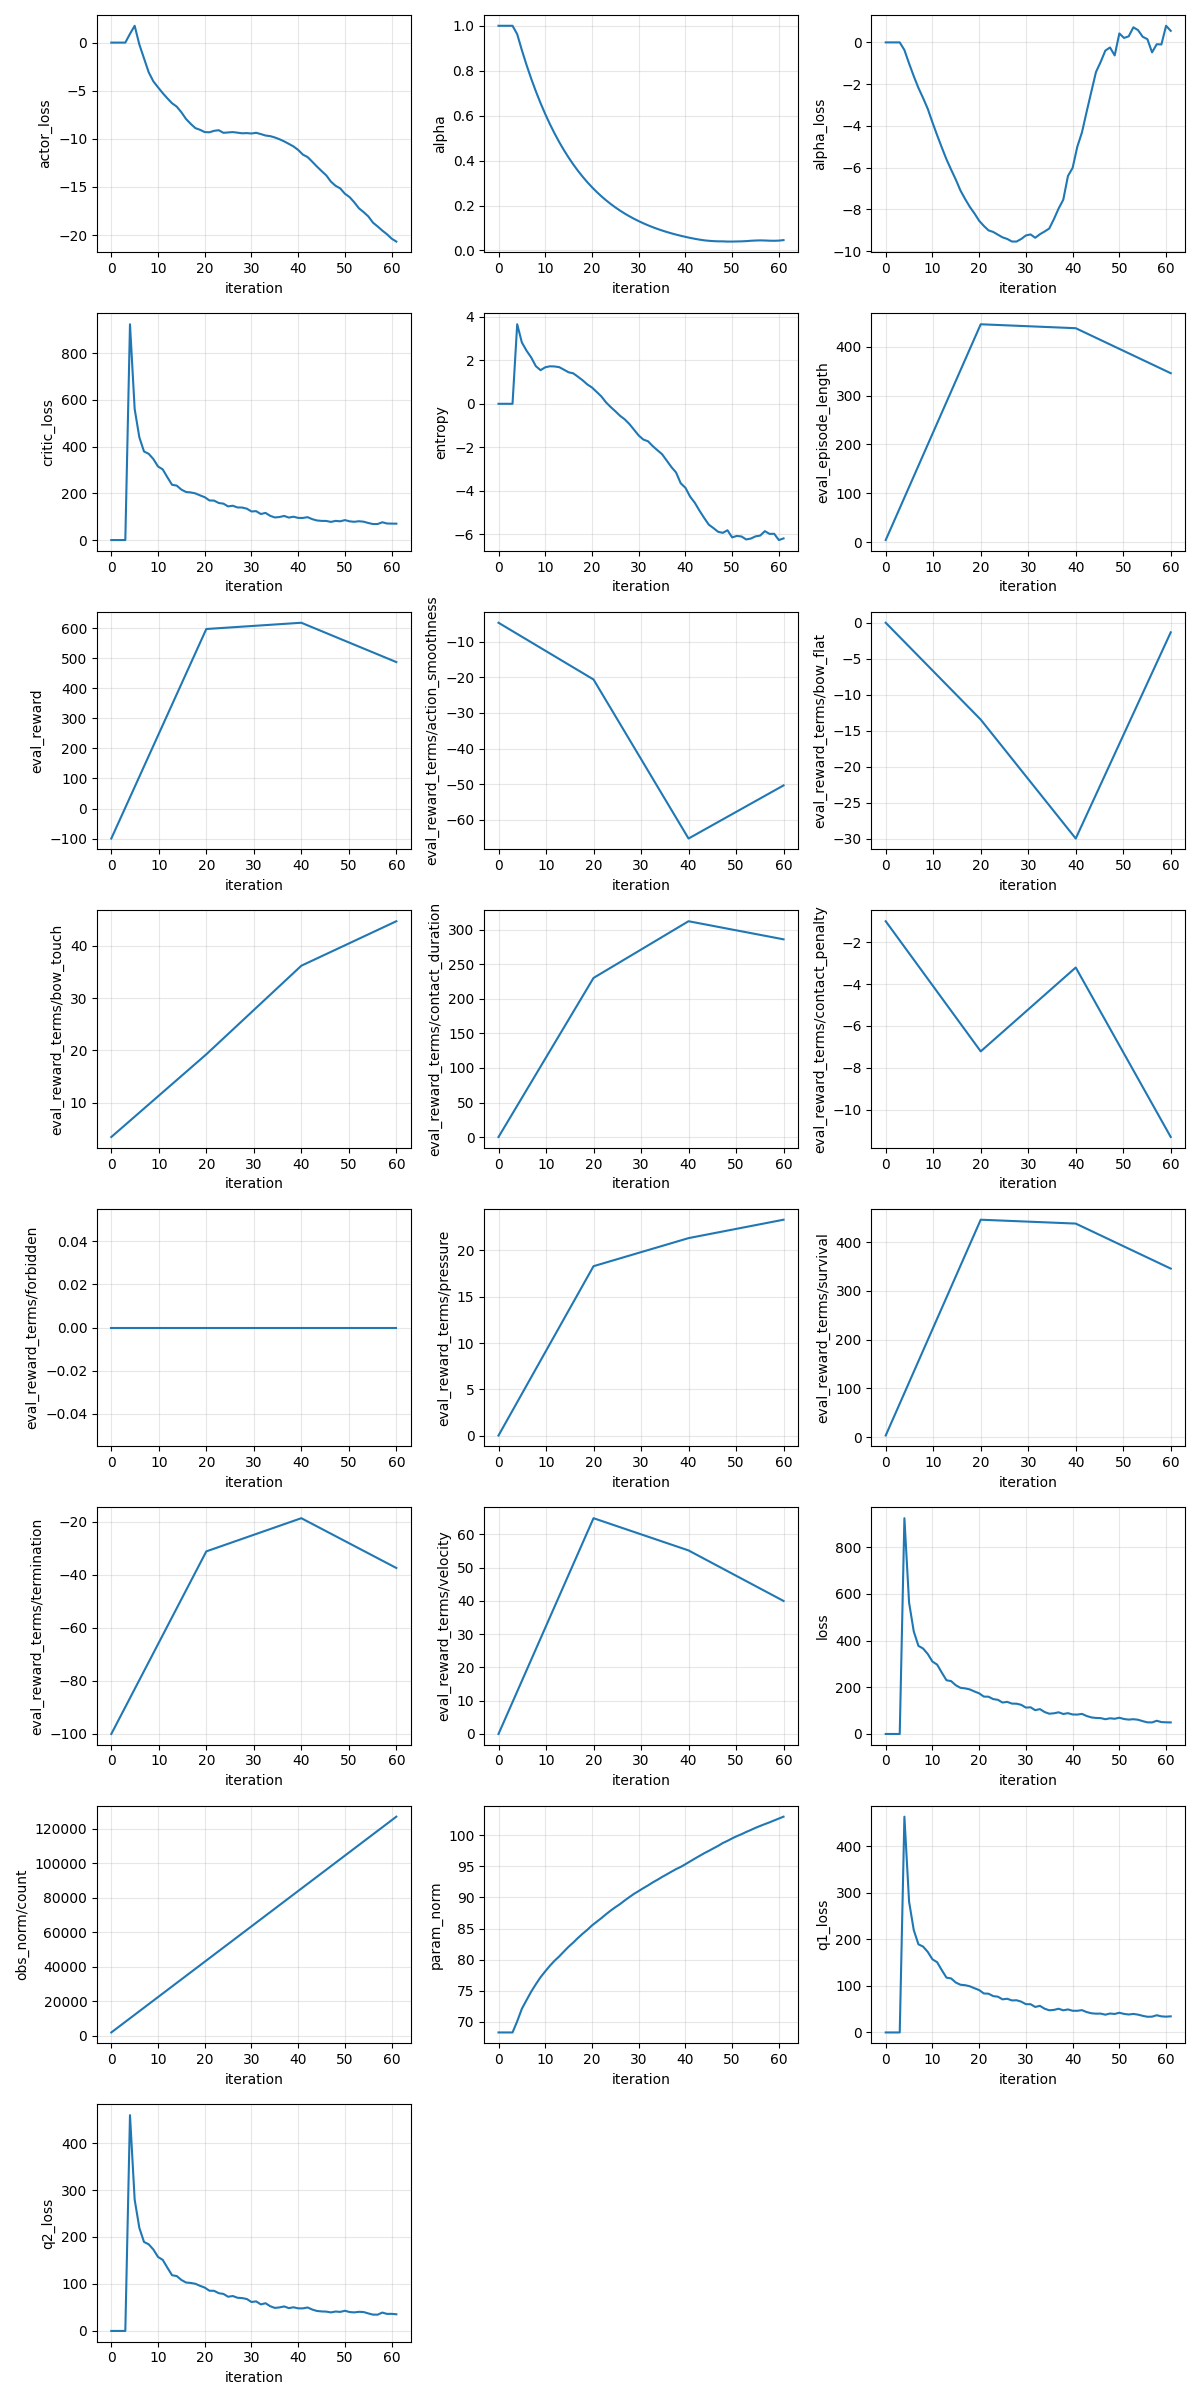
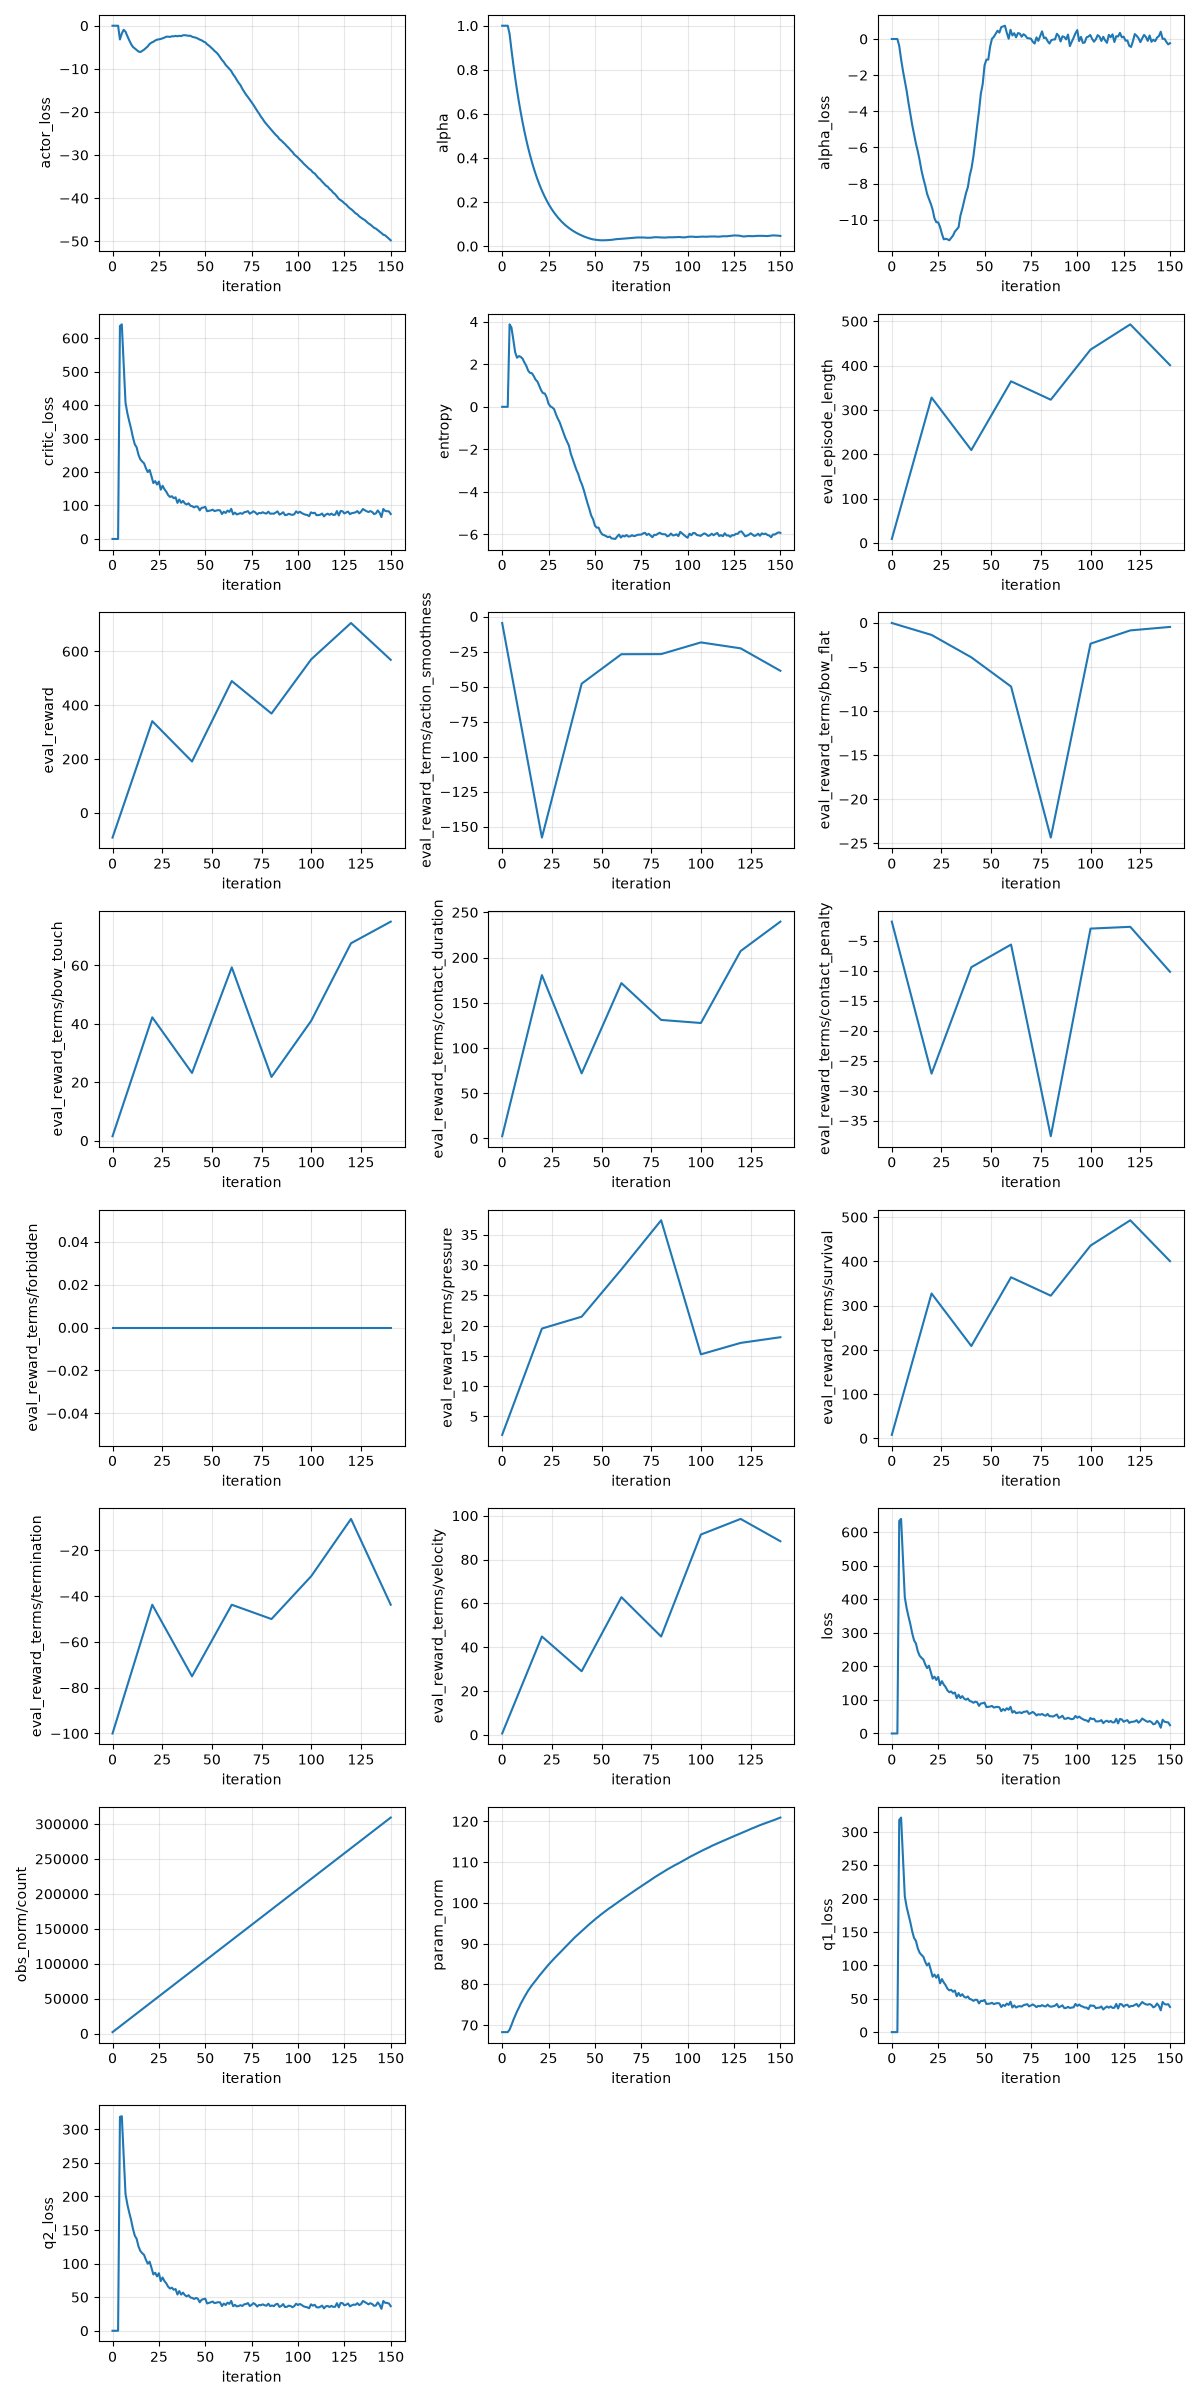
log vel_ctrl + pos_ctrl after included frog stiffness in obs

diff --git a/envs/erhu_env.py b/envs/erhu_env.py
@@ -172,7 +172,7 @@ class ErhuEnv(MjxEnv):
         contact_steps_decay: float = 5.0, # steps of `contact_steps` lost per non-contact step, instead of an instant reset to 0.
         velocity_kernel_scale: float = 100.0, # corresopnd to accpetable error of 0.01 [m/s].
         pressure_kernel_scale: float = 10.0, # corresopnd to accpetable error of 0.1 [N].
-        traj_v_limit: float = 0.05, # m/s, symmetric cap on the scripted reference velocity -- see utils_traj.
+        traj_v_limit: float = 0.1, # m/s, symmetric cap on the scripted reference velocity -- see utils_traj.
         traj_p_min: float = 0.1, # N, lower bound used only when sampling a profile's interior control points.
         traj_p_max: float = 1.5, # N, cap on the scripted reference pressure (kept under f_safe).
         traj_accel_min: float = 0.005, # (m/s)^2, lower bound on the sampled velocity-profile curvature target `a_bar`.

diff --git a/inference.py b/inference.py
@@ -224,7 +224,7 @@ def parse_args() -> argparse.Namespace:
         help="Desired bow velocity (m/s) fed to the policy until the first CommandPacket arrives.",
     )
     parser.add_argument(
-        "--init-pressure", type=float, default=0.0,
+        "--init-pressure", type=float, default=0.2,
         help="Desired bow pressure (N) fed to the policy until the first CommandPacket arrives.",
     )
     parser.add_argument(
